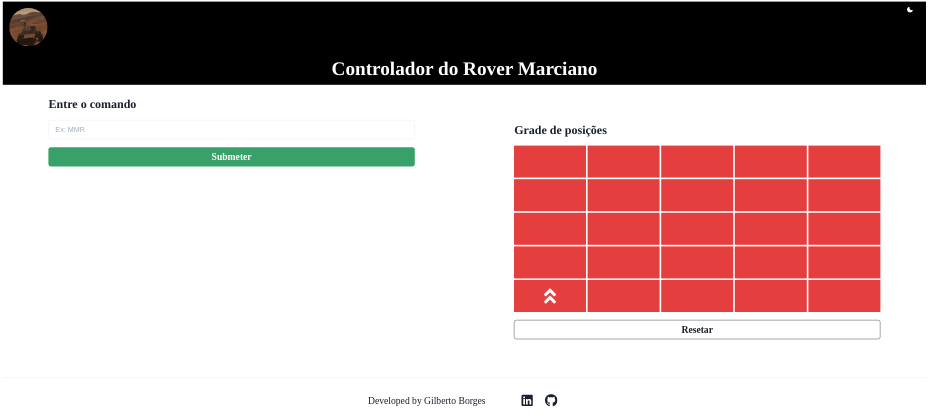
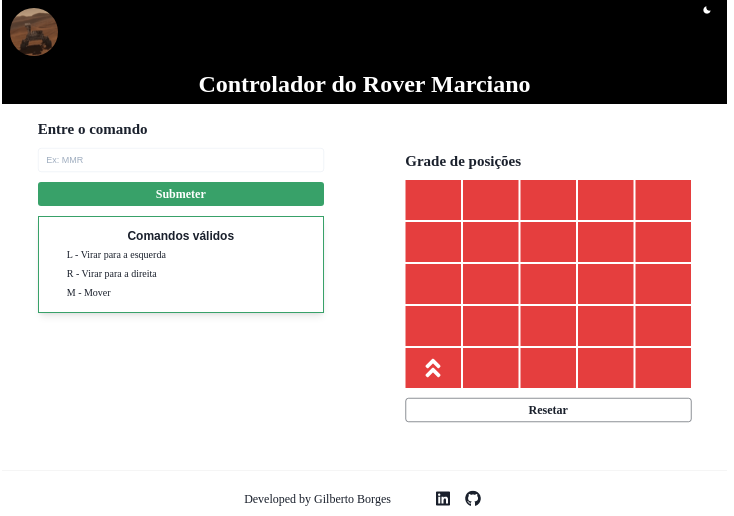
create legend card (#10)
- set up terrain field margin for breakpoint of small devices.
 - substituing screen print images

diff --git a/packages/components/StatusError.js b/packages/components/StatusError.js
@@ -1,9 +1,43 @@
-import { Stack, Icon, Badge } from "@chakra-ui/react";
+import {
+  Stack,
+  Icon,
+  Badge,
+  Box,
+  Text,
+  Heading,
+} from "@chakra-ui/react";
 import { FaExclamationTriangle } from "react-icons/fa";
 
 export default function StatusError(props) {
   if (props.isSintaxValid && props.isPositionValid) {
-    return <Stack w="80%"></Stack>;
+    return (
+      <Box
+        w="full"
+        fontFamily="Roboto"
+        border="2px"
+        borderColor="green.500"
+        boxShadow='lg'
+        _hover={{
+          transform: "translateY(-2px)",
+          boxShadow: "2xl",
+        }}
+      >
+        <Stack direction="column" p="6">
+          <Heading as="h6" fontSize="2xl" alignSelf="center">
+            Comandos válidos
+          </Heading>
+          <Text fontSize="xl" pl="2rem">
+            L - Virar para a esquerda
+          </Text>
+          <Text fontSize="xl" pl="2rem">
+            R - Virar para a direita
+          </Text>
+          <Text fontSize="xl" pl="2rem">
+            M - Mover
+          </Text>
+        </Stack>
+      </Box>
+    );
   }
   if (!props.isSintaxValid) {
     return (

diff --git a/packages/components/App.js b/packages/components/App.js
@@ -23,7 +23,7 @@ export default function App(props) {
     />
   ));
   return (
-    <Grid templateColumns={{ base: "auto", lg: "1fr 1fr" }} gap="5" my="1rem">
+    <Grid templateColumns={{ base: "auto", lg: "1fr 1fr" }} gap={{ base: "1", lg: "5" }} my="1rem">
       <Stack
         direction="column"
         w="80%"
@@ -38,10 +38,9 @@ export default function App(props) {
           isPositionValid={!positionErr}
         />
       </Stack>
-      <Stack direction="column" w="80%" mx="auto" py="5rem" spacing="5">
+      <Stack direction="column" w="80%" mx="auto" py={{ base: "1rem", lg: "5rem" }} spacing="5">
         <Heading as="h3" fontFamily="Roboto" size="lg">
-          {" "}
-          Grade de posições{" "}
+          Grade de posições
         </Heading>
         <Grid templateColumns="repeat(5, 1fr)" gap="1">
           {grid}
